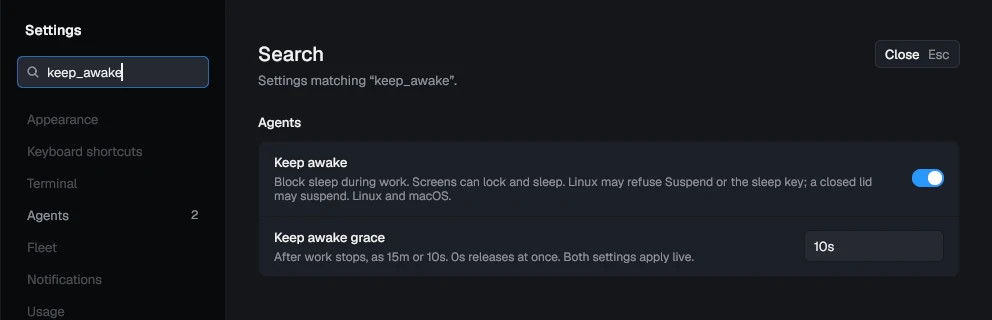
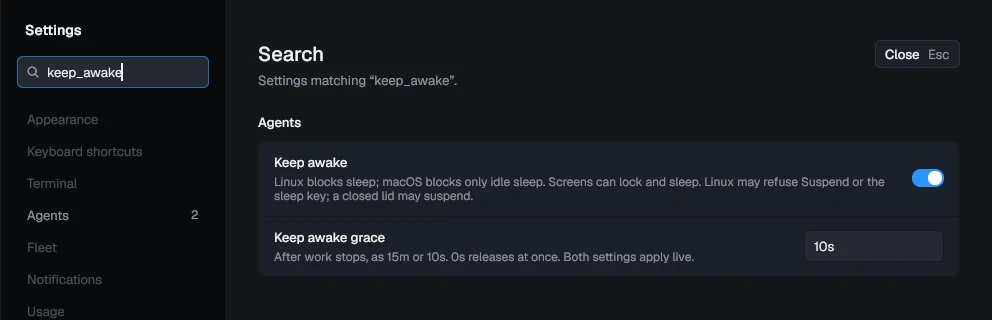
Preserve settled chat activity across handoff

Changed region(s): [[0.2812, 0.5312, 0.9062, 0.625]]

diff --git a/internal/daemon/keepawake_handoff_test.go b/internal/daemon/keepawake_handoff_test.go
@@ -5,6 +5,8 @@ package daemon
 import (
 	"context"
 	"io"
+	"os"
+	"path/filepath"
 	"sync/atomic"
 	"testing"
 	"time"
@@ -17,67 +19,110 @@ import (
 )
 
 func TestKeepAwakeChatHandoff(t *testing.T) {
-	f := &fakes{statsCalls: map[string]int{}}
-	root := t.TempDir()
-	var oldHeld, newTakes atomic.Int32
-	options := func(held *atomic.Int32) func(*Options) {
-		return func(o *Options) {
-			o.Chats = root
-			o.Providers = map[model.Provider]session.Provider{model.ProviderClaude: &stubProvider{}}
-			o.NewVT = vt.New
-			o.StartPane = func(c pane.Config) (Pane, error) { return pane.Start(c) }
-			o.KeepAwake = func() (bool, time.Duration) { return true, 0 }
-			o.InhibitIdle = func(context.Context) (io.Closer, error) {
-				held.Add(1)
-				return awakeCloser(func() error { held.Add(-1); return nil }), nil
+	for _, name := range []string{"loaded", "unreadable"} {
+		t.Run(name, func(t *testing.T) {
+			provider := &stubProvider{}
+			f := &fakes{statsCalls: map[string]int{}}
+			root := t.TempDir()
+			var oldHeld, newTakes atomic.Int32
+			options := func(held *atomic.Int32) func(*Options) {
+				return func(o *Options) {
+					o.Chats = root
+					o.Providers = map[model.Provider]session.Provider{model.ProviderClaude: provider}
+					o.NewVT = vt.New
+					o.StartPane = func(c pane.Config) (Pane, error) { return pane.Start(c) }
+					o.KeepAwake = func() (bool, time.Duration) { return true, 0 }
+					o.InhibitIdle = func(context.Context) (io.Closer, error) {
+						held.Add(1)
+						return awakeCloser(func() error { held.Add(-1); return nil }), nil
+					}
+				}
 			}
-		}
+			old, sock, stopOld := runDaemon(t, f, options(&oldHeld))
+			defer stopOld()
+			gui := dial(t, sock, "gui")
+			activity := func(d *Daemon, id string) (model.Activity, bool) {
+				d.mu.Lock()
+				defer d.mu.Unlock()
+				for _, a := range d.attended() {
+					if a.PaneID == id {
+						return a, true
+					}
+				}
+				return model.Activity{}, false
+			}
+			completed := chatCall[proto.ChatResult](gui, proto.ChatNew{Provider: model.ProviderClaude, Dir: t.TempDir(), Prompt: "Finish"})
+			if completed.Code != "" {
+				t.Fatalf("completed chat: %+v", completed)
+			}
+			provider.driver(t).end(session.TurnCompleted)
+			waitUntil(t, "completed unseen chat", func() bool {
+				a, ok := activity(old, completed.Chat)
+				return ok && a.State == model.StateCompleted && a.Unseen
+			})
+			r := chatCall[proto.ChatResult](gui, proto.ChatNew{Provider: model.ProviderClaude, Dir: t.TempDir(), Prompt: "Work"})
+			if r.Code != "" {
+				t.Fatalf("new chat: %+v", r)
+			}
+			waitUntil(t, "running chat", func() bool { a, ok := activity(old, r.Chat); return ok && a.State == model.StateWorking })
+			waitUntil(t, "old inhibitor", func() bool { return oldHeld.Load() == 1 })
+			if name == "unreadable" {
+				if err := os.WriteFile(filepath.Join(root, r.Chat, "config.json"), []byte("{"), 0600); err != nil {
+					t.Fatal(err)
+				}
+			}
+			o := f.options()
+			options(&newTakes)(&o)
+			checked := make(chan struct{}, 1)
+			o.KeepAwake = func() (bool, time.Duration) {
+				select {
+				case checked <- struct{}{}:
+				default:
+				}
+				return true, 0
+			}
+			d, ln, err := Takeover(sock, o)
+			if err != nil {
+				t.Fatal(err)
+			}
+			ctx, cancel := context.WithCancel(context.Background())
+			done := make(chan error, 1)
+			go func() { done <- d.Serve(ctx, ln) }()
+			defer func() {
+				cancel()
+				if err := <-done; err != nil {
+					t.Error(err)
+				}
+			}()
+			select {
+			case <-checked:
+			case <-time.After(3 * time.Second):
+				t.Fatal("new daemon did not evaluate keep awake")
+			}
+			if d.agentsWorking() {
+				t.Fatal("an unopened chat retains its handed-off Working activity")
+			}
+			d.mu.Lock()
+			c := d.chats[r.Chat]
+			var state string
+			if c != nil {
+				state = c.sum.State
+			}
+			d.mu.Unlock()
+			if name == "unreadable" {
+				if c != nil {
+					t.Fatal("chat with unreadable config loaded")
+				}
+			} else if c == nil || state != session.StateReady {
+				t.Fatal("handed-off chat is not ready")
+			}
+			if newTakes.Load() != 0 {
+				t.Fatalf("new inhibitor count %d", newTakes.Load())
+			}
+			if a, ok := activity(d, completed.Chat); !ok || a.State != model.StateCompleted || !a.Unseen {
+				t.Fatalf("completed activity after handoff: %+v, present %v", a, ok)
+			}
+			waitUntil(t, "old inhibitor released", func() bool { return oldHeld.Load() == 0 })
+		})
 	}
-	sock, stopOld := runWith(t, f, options(&oldHeld))
-	defer stopOld()
-	gui := dial(t, sock, "gui")
-	r := chatCall[proto.ChatResult](gui, proto.ChatNew{Provider: model.ProviderClaude, Dir: t.TempDir(), Prompt: "Work"})
-	if r.Code != "" {
-		t.Fatalf("new chat: %+v", r)
-	}
-	waitChat(gui, "running chat", func(s model.State) bool { return chatOf(s).State == session.StateRunning })
-	waitUntil(t, "old inhibitor", func() bool { return oldHeld.Load() == 1 })
-	o := f.options()
-	options(&newTakes)(&o)
-	checked := make(chan struct{}, 1)
-	o.KeepAwake = func() (bool, time.Duration) {
-		select {
-		case checked <- struct{}{}:
-		default:
-		}
-		return true, 0
-	}
-	d, ln, err := Takeover(sock, o)
-	if err != nil {
-		t.Fatal(err)
-	}
-	ctx, cancel := context.WithCancel(context.Background())
-	done := make(chan error, 1)
-	go func() { done <- d.Serve(ctx, ln) }()
-	defer func() {
-		cancel()
-		if err := <-done; err != nil {
-			t.Error(err)
-		}
-	}()
-	select {
-	case <-checked:
-	case <-time.After(3 * time.Second):
-		t.Fatal("new daemon did not evaluate keep awake")
-	}
-	if d.agentsWorking() {
-		t.Fatal("an unopened chat retains its handed-off Working activity")
-	}
-	d.mu.Lock()
-	state := d.chats[r.Chat].sum.State
-	d.mu.Unlock()
-	if state != session.StateReady || newTakes.Load() != 0 {
-		t.Fatalf("chat state %s, new inhibitor count %d", state, newTakes.Load())
-	}
-	waitUntil(t, "old inhibitor released", func() bool { return oldHeld.Load() == 0 })
 }

diff --git a/internal/ui/settings/page.go b/internal/ui/settings/page.go
@@ -1259,7 +1259,7 @@ func (p *Page) agents() []section {
 		}})
 	rows = append(rows, row{label: "Agents at once", desc: "How many agents may run in a session before queued tasks wait for one to finish. 0 sets no limit: a queued task then waits for any agent of its session to finish.",
 		extra: "queue tasks max_running limit", control: p.stepper("agents", "max_running", float64(p.s.MaxRunning), 0, 100, 1, 0)})
-	rows = append(rows, row{label: "Keep awake", desc: "Block sleep during work. Screens can lock and sleep. Linux may refuse Suspend or the sleep key; a closed lid may suspend. Linux and macOS.",
+	rows = append(rows, row{label: "Keep awake", desc: "Linux blocks sleep; macOS blocks only idle sleep. Screens can lock and sleep. Linux may refuse Suspend or the sleep key; a closed lid may suspend.",
 		extra: "sleep inhibit keep_awake", control: p.toggle("agents", "keep_awake", p.s.KeepAwake)})
 	rows = append(rows, p.keepAwakeGraceRow())
 	rows = append(rows, row{label: "Resume after limit", desc: "When Claude Code or Codex stops on its plan's usage limit, types continue into it a minute after the limit resets. Defers to Claude's own auto-continue unless its user settings explicitly turn it off; managed or command-line overrides can differ, so keep only one enabled. The tab's pill shows when; typing in the pane or Cancel resume in the tab's menu drops it. A daemon restart drops it too.",

diff --git a/internal/config/agents.go b/internal/config/agents.go
@@ -11,7 +11,7 @@ import (
 
 // AgentLimits is [agents].
 type AgentLimits struct {
-	KeepAwake         *bool         `toml:"keep_awake" doc:"Block sleep while an agent works, including chat turns. Screens can lock and sleep. Linux may refuse manual Suspend and the sleep key; a closed lid may still suspend. Off by default; Linux and macOS only"`
+	KeepAwake         *bool         `toml:"keep_awake" doc:"Block Linux sleep or macOS idle sleep while agents work, including chat turns. Screens can lock and sleep. Linux may refuse Suspend or the sleep key; macOS manual sleep works. A closed lid may still suspend. Off by default"`
 	KeepAwakeGrace    *string       `toml:"keep_awake_grace" doc:"How long to hold the sleep inhibitor after no agent works, as a duration such as 15m or 1h. Default 15m; 0s releases at once. Applies live"`
 	ACP               []ACPAgent    `toml:"acp" doc:"ACP v1 agents for managed chats, each a [[agents.acp]] table. See docs/acp.md"`
 	MaxRunning        *float64      `toml:"max_running" min:"0" max:"100" doc:"How many agents may run at once in a session before its queued tasks wait; a queued task starts when one of them finishes (done, failed or closed). 0 sets no limit: a queued task then waits for an agent of its session to finish, or starts at once when none runs"`

diff --git a/internal/daemon/daemon.go b/internal/daemon/daemon.go
@@ -85,9 +85,9 @@ type Pane interface {
 // Options are the daemon's collaborators. New wires the real packages; tests
 // pass fakes to NewWith.
 type Options struct {
-	// KeepAwake reads the live idle-sleep setting; nil leaves it off.
+	// KeepAwake reads [agents] keep_awake and keep_awake_grace live; nil leaves it off.
 	KeepAwake func() (bool, time.Duration)
-	// InhibitIdle holds idle sleep until its closer closes.
+	// InhibitIdle blocks Linux sleep or macOS idle sleep until its closer closes.
 	InhibitIdle func(context.Context) (io.Closer, error)
 	// UpdateScreenPatterns refreshes detection rules until ctx ends; nil
 	// leaves the active rules alone without reading a cache or using the network.

diff --git a/internal/daemon/handoff_unix.go b/internal/daemon/handoff_unix.go
@@ -464,7 +464,9 @@ func takeover(uc *net.UnixConn, conn *proto.Conn, o Options) (*Daemon, *net.Unix
 	// them as it exits. shortcut: a command in that window opens a chat
 	// the old daemon still has open; moving chats in the bundle ends it.
 	d.loadChats()
-	d.st.Activities = slices.DeleteFunc(d.st.Activities, func(a model.Activity) bool { return d.chats[a.PaneID] != nil })
+	d.st.Activities = slices.DeleteFunc(d.st.Activities, func(a model.Activity) bool {
+		return a.State == model.StateWorking && d.panes[a.PaneID] == nil
+	})
 	d.tidy()
 	d.mu.Unlock()
 	ln.SetUnlinkOnClose(true)

diff --git a/internal/config/config.go b/internal/config/config.go
@@ -318,7 +318,7 @@ type Settings struct {
 	Decisions DecideSettings
 	// MaxRunning is [agents] max_running: 0 for no limit.
 	MaxRunning int
-	// KeepAwake prevents idle sleep while agents work and for KeepAwakeGrace afterward.
+	// KeepAwake blocks Linux sleep or macOS idle sleep during work and for KeepAwakeGrace afterward.
 	KeepAwake      bool
 	KeepAwakeGrace time.Duration
 	// StartupPerAgentDelay is the gap between restored agent launches.

diff --git a/docs/config.md b/docs/config.md
@@ -78,7 +78,7 @@ conflict_radar = true                   # mark tabs whose branches change the sa
 
 [agents]
 startup_per_agent_delay_ms = 100         # gap after each restored agent; 0 starts all at once
-keep_awake = false                      # block sleep while agents work, Linux and macOS
+keep_awake = false                      # block Linux sleep or macOS idle sleep during work
 keep_awake_grace = "15m"                 # duration after no agent works; 0s releases at once
 
 [[agents.preset]]                       # Settings, Agents adds and edits these
@@ -116,7 +116,7 @@ recently used session first. The gaps add 1.1 seconds for a dozen agents.
 60000 and takes effect on the next daemon restart. Set it to 0 to start all
 agents at once. Shells and other non-agent panes start immediately.
 
-`[agents] keep_awake` is off by default. When enabled, the daemon blocks
+`[agents] keep_awake` is off by default. It blocks Linux sleep or macOS idle
 sleep while any agent is Working, including a chat turn. Waiting for
 approval or at a prompt does not count. `keep_awake_grace` accepts a
 non-negative duration such as `15m`, `1h` or `0s`, with a default of `15m`.
@@ -132,15 +132,15 @@ while the lock is held. A closed lid may still suspend the machine; that
 follows the machine's settings. Compositor idle daemons may also need to
 honor sleep inhibitors.
 
-Systemd 262.1's [idle action](https://github.com/systemd/systemd/blob/v262.1/src/login/logind.c#L1062)
-passes idle suspend through the [sleep inhibitor check](https://github.com/systemd/systemd/blob/v262.1/src/login/logind-action.c#L220).
+Systemd 262.1's [idle action](https://github.com/systemd/systemd/blob/v262.1/src/login/logind.c#L1160)
+passes idle suspend through the [sleep inhibitor check](https://github.com/systemd/systemd/blob/v262.1/src/login/logind-action.c#L234).
 Real suspend, other `IdleAction` values and desktop overrides remain
 unverified.
 
 macOS runs `caffeinate -i -w <daemon pid>` only while the inhibitor is needed.
-Windows and other platforms do nothing. If taking the inhibitor fails, the
-daemon logs once and leaves agents running; it retries after a daemon
-restart.
+It prevents idle sleep only; it does not block manual sleep. Windows and
+other platforms do nothing. If taking the inhibitor fails, the daemon logs
+once and leaves agents running; it retries after a daemon restart.
 
 An agent stuck in Working keeps the machine awake without a time limit,
 even if its row says quiet. A failed turn that sends no hook can cause

diff --git a/docs/usage.md b/docs/usage.md
@@ -262,9 +262,9 @@ same button. Agents already running load their hooks only when restarted.
 
 ### Keep the machine awake
 
-Turn on **Keep awake** in Settings, Agents to block sleep while any agent
-is Working, including chat turns. The setting is off by default. Agents
-waiting for approval or at a prompt do not count. **Keep awake grace**
+Turn on **Keep awake** in Settings, Agents to block Linux sleep or macOS
+idle sleep while any agent is Working, including chat turns. The setting
+is off by default. Agents waiting for approval or at a prompt do not count. **Keep awake grace**
 keeps the inhibitor for 15 minutes after no agent works. Enter a duration
 such as `10s`, `15m` or `48h`; `0s` releases at once. Press Enter or leave
 the field to save. Clear the field to reset it to 15 minutes. Both settings
@@ -278,10 +278,11 @@ while the lock is held. A closed lid may still suspend the machine; that
 follows the machine's settings. Compositor idle daemons may also need to
 honor sleep inhibitors.
 
-Systemd 262.1's [idle-suspend path](https://github.com/systemd/systemd/blob/v262.1/src/login/logind.c#L1062)
+Systemd 262.1's [idle-suspend path](https://github.com/systemd/systemd/blob/v262.1/src/login/logind.c#L1160)
 checks sleep inhibitors. Real suspend, other `IdleAction` values and
 desktop overrides remain unverified. macOS runs `caffeinate -i -w <daemon pid>`
-only while the inhibitor is needed. Windows and other platforms do nothing.
+only while the inhibitor is needed. It prevents idle sleep only; it does
+not block manual sleep. Windows and other platforms do nothing.
 
 An agent stuck in Working keeps the machine awake without a time limit,
 even if its row says quiet. A failed turn that sends no hook can cause

diff --git a/CHANGELOG.md b/CHANGELOG.md
@@ -20,7 +20,7 @@ build. Either step takes `--dry-run`.
 - pitwall's own git reads the repository's config just before each command and turns off the programs it finds: fsmonitor, hooks, filter, diff and merge drivers, ssh and credential programs. A program added in the moment between the two can still run, so this reduces the risk and is not a sandbox boundary. Filters from your global config, such as git-lfs, keep working. With a filter set only in `.git/config`, such as git-crypt's, staging, discarding and undo from pitwall refuse instead of writing raw bytes, and a worktree pitwall makes runs no `post-checkout` hook; use worktree `setup` for that.
 - Messages, review comments and `continue` now wait while your draft sits in Claude Code's or Codex's input box, and the row shows "Waits: your draft".
 
-- Keep awake in Settings blocks sleep on Linux and macOS while agents work, with a configurable grace period afterward.
+- Keep awake in Settings blocks sleep on Linux and idle sleep on macOS while agents work, with a configurable grace period afterward.
 
 ## v0.1.13
 
